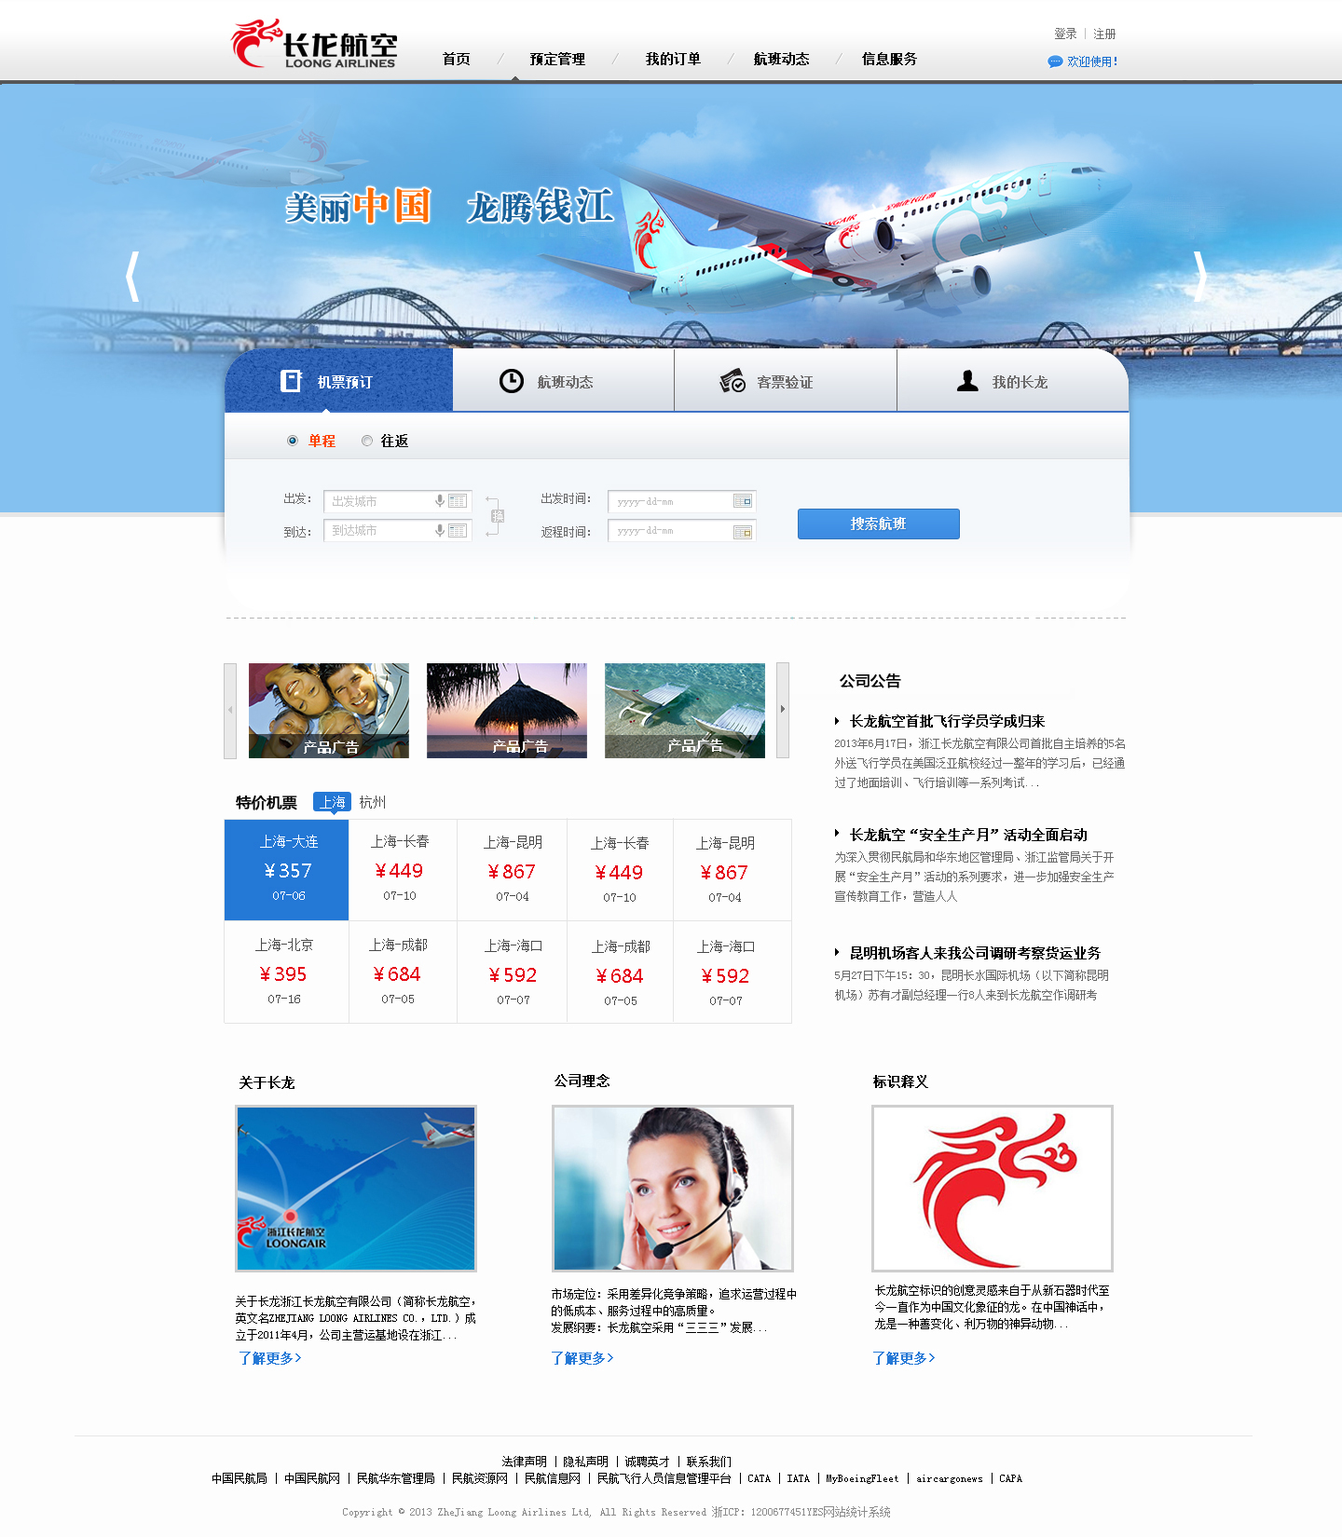
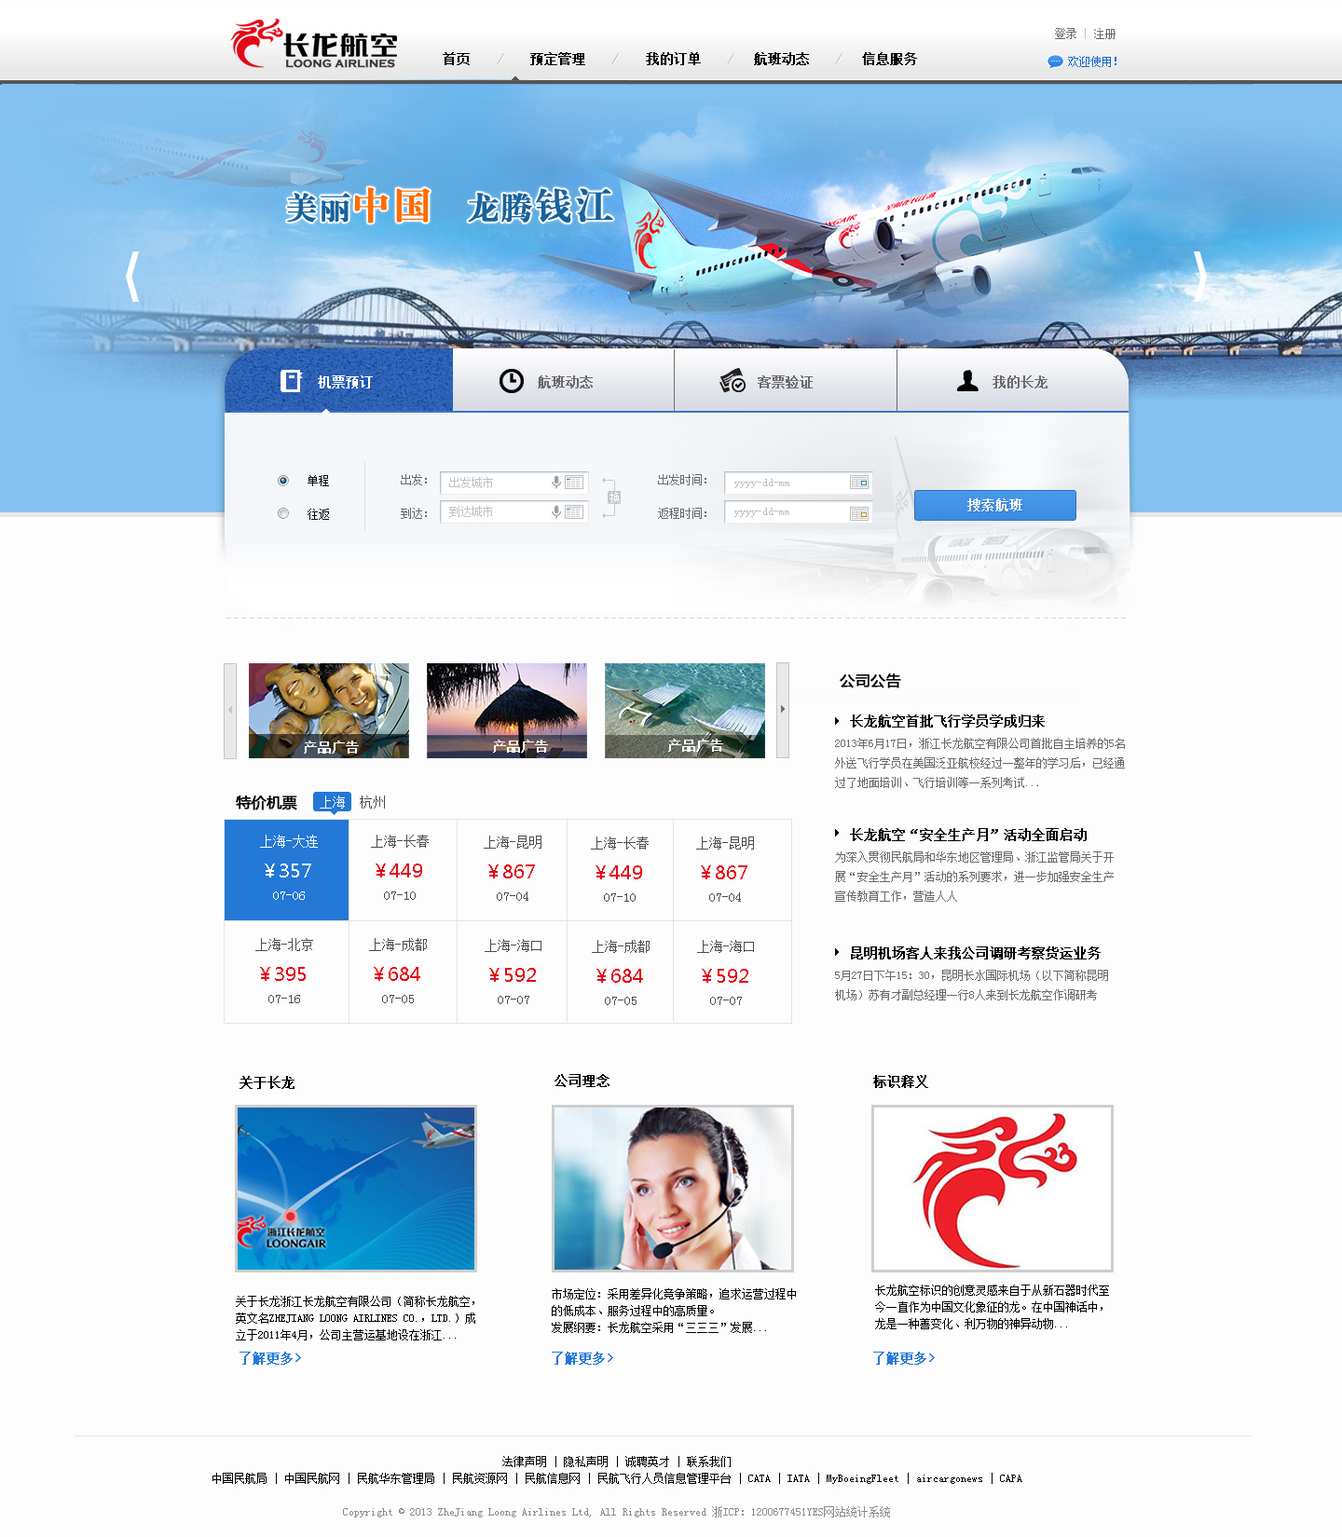
update
update

diff --git a/demo/index.html b/demo/index.html
@@ -1,7 +1,7 @@
 <!DOCTYPE html>
 <head>
 <meta http-equiv="Content-Type" content="text/html; charset=utf-8" />
-<title>无标题文档</title>
+<title>长龙航空</title>
 <link type="text/css" href="css/global.css" rel="stylesheet"/>
 <link type="text/css" href="css/index.css" rel="stylesheet"/>
 
@@ -34,8 +34,10 @@ KISSY.use('gallery/slide/1.1/',function(S,Slide){
 		var s = new Slide('J_SlideBannar',{
 			autoSlide:true,
 			eventType:'click',
+			navClass:'scrollable-trigger',
 			contentClass:'scrollable-panel',
 			pannelClass:'scrollable-content',
+			selectedClass:'current',
 			triggerSelector:'a',
 			effect:'hSlide',
 			carousel:true
@@ -52,11 +54,12 @@ KISSY.use('gallery/slide/1.1/',function(S,Slide){
 		var s1 = new Slide('J_MainBanner',{
 			autoSlide:true,
 			eventType:'click',
-			contentClass:'scrollable-panel0',
-			pannelClass:'scrollable-content0',
+			navClass:'scrollable-trigger',
+			contentClass:'scrollable-panel',
+			pannelClass:'scrollable-content',
+			selectedClass:'current',
 			triggerSelector:'a',
-			effect:'hSlide',
-			carousel:true
+			effect:'fade'
 		});
 		var ctl = S.one('#J_MainBanner-ctrl');
 
@@ -147,12 +150,12 @@ function selectcity(city){
 <div class="bannerout">
     <a class="prebanner" href="javascript:void(0)" id="prebanner"></a>
     <a class="nextbanner" href="javascript:void(0)" id="nextbanner"></a>
-    <div id="J_MainBanner">
-    	<div class="scrollable-panel0">
-		    <div class="scrollable-content0">
+    <div id="J_MainBanner"  >
+    	<div class="scrollable-panel" style="overflow:hidden;position:relative;width:100%;height:465px">
+		    <div class="scrollable-content"   style="width:100%;">
 			   <div class="bannerimg" style="background:url(image/banner1.jpg) center no-repeat;"><a href="javascript:void(0)" class="bannera"></a></div>
 		   	</div>
-			<div class="scrollable-content0 " style="display:none">
+			<div class="scrollable-content " style="width:100%;display:none">
 			   <div class="bannerimg" style="background:url(image/banner2.jpg) center no-repeat;"><a href="javascript:void(0)" class="bannera"></a></div>
 		   	</div>
 	   	</div>
@@ -164,54 +167,55 @@ function selectcity(city){
             <a href="javascript:void(0)" id="check-link" onclick="selectTab('check-link')" class="check-link">客票验证</a>
             <a href="javascript:void(0)" id="my-link" onclick="selectTab('my-link')" class="my-link">我的长龙</a>    
         </div>
-        <div id="ticker-tab" class="ticker-tab" >
-             <!-- 旅行搜索所有搜索框横向 需要引用这个css文件 -->
-    <div class="search-md search-md-jipiao" id="J_search_tab3" style="padding-top:50px">
-    	<ul class="hd tab-nav" style="display:none">
-            <li class="first-node current">国内机票</li>
-        </ul>
-       <div class="search-content tab-content clearfix">
-            <div class="search-posbox has-trans">  
-                <div class="tab-pannel has-trans">
-                    <form action="" method="get" autocomplete="off" id="J_jipiao_form3">
-                        <ul class="search-type">
-                            <li><input type="radio" class="J_type_radio" name="tripType" value="0" id="J_type_radio1" checked> <label for="J_type_radio1">单程</label></li>
-                            <li><input type="radio" class="J_type_radio" name="tripType" value="1" id="J_type_radio2"> <label for="J_type_radio2">往返</label></li>
-                        </ul>
-                        <ul class="search-condition">
-                            <li>
-                                <label for="J_jipiao_depCity3">出发：</label>
-                                <div class="yui3-acinput-box"><s class="yui3-acinput-icon"></s><input type="text" placeholder="出发城市" id="J_jipiao_depCity3" class="search-input required yui3-aclist-input J_TripCityInput" name="depCityName" data-trade="J_jipiao_arrCity3" aria-autocomplete="list" aria-expanded="false" autocomplete="off" x-webkit-speech="x-webkit-speech"></div>
-                                <input type="hidden" id="J_jipiao_depCity_code3" name="depCity" value="BJS" data-trade="J_jipiao_arrCity_code3">
-                            <div class="yui3-aclist-aria" aria-live="polite" role="status"></div></li>
-                            <li>
-                                <label for="J_jipiao_depDate3">出发时间：</label>
-                                <div id="J_jipiao_depDateBox3" class="cal-input fl">
-                                    <input type="text" data-autotab="J_jipiao_endDate3" placeholder="yyyy-mm-dd" id="J_jipiao_depDate3" class="search-input required J_DateInput" maxlength="10" name="depDate" autocomplete="off">
-                                    <span class="week b"></span>
-                                </div>
-                            </li>
-                            <li>
-                                <label for="J_jipiao_arrCity3" >到达：</label>
-                                <div class="yui3-acinput-box"><s class="yui3-acinput-icon"></s><input type="text" placeholder="到达城市" id="J_jipiao_arrCity3" class="search-input required yui3-aclist-input J_TripCityInput" name="arrCityName" aria-autocomplete="list" aria-expanded="false" autocomplete="off" x-webkit-speech="x-webkit-speech"></div>
-                                <input type="hidden" id="J_jipiao_arrCity_code3" name="arrCity" value="DLC">
-                            <div class="yui3-aclist-aria" aria-live="polite" role="status"></div></li>
-                            <li class="search-backitem disabled">
-                                <label for="J_jipiao_endDate3">返程时间：</label>
-                                <div id="J_jipiao_endDateBox3" class="cal-input fl">
-                                    <input type="text" placeholder="yyyy-mm-dd" id="J_jipiao_endDate3" class="search-input J_endDate J_DateInput" maxlength="10" name="arrDate" autocomplete="off">
-                                    <span class="week e"></span>
-                                </div>
-                            </li>
-                        </ul>
-                        <div class="search-trade"><a target="_self" href="javascript:void(0)">互换出发到达城市</a></div>
-                        <input type="submit" value="搜索航班" class="search-submit J_btn">
-                    </form>
-                </div>
-            </div>
-        </div>
+    
+    <div id="ticker-tab" class="ticker-tab" >
+         <!-- 旅行搜索所有搜索框横向 需要引用这个css文件 -->
+	    <div class="search-md search-md-jipiao" id="J_search_tab3" style="padding-top:50px">
+	    	<ul class="hd tab-nav" style="display:none">
+	            <li class="first-node current">国内机票</li>
+	        </ul>
+	       <div class="search-content tab-content clearfix">
+	            <div class="search-posbox has-trans">  
+	                <div class="tab-pannel has-trans">
+	                    <form action="" method="get" autocomplete="off" id="J_jipiao_form3">
+	                        <ul class="search-type">
+	                            <li><input type="radio" class="J_type_radio" name="tripType" value="0" id="J_type_radio1" checked> <label for="J_type_radio1">单程</label></li>
+	                            <li><input type="radio" class="J_type_radio" name="tripType" value="1" id="J_type_radio2"> <label for="J_type_radio2">往返</label></li>
+	                        </ul>
+	                        <ul class="search-condition">
+	                            <li>
+	                                <label for="J_jipiao_depCity3">出发：</label>
+	                                <div class="yui3-acinput-box"><s class="yui3-acinput-icon"></s><input type="text" placeholder="出发城市" id="J_jipiao_depCity3" class="search-input required yui3-aclist-input J_TripCityInput" name="depCityName" data-trade="J_jipiao_arrCity3" aria-autocomplete="list" aria-expanded="false" autocomplete="off" x-webkit-speech="x-webkit-speech"></div>
+	                                <input type="hidden" id="J_jipiao_depCity_code3" name="depCity" value="BJS" data-trade="J_jipiao_arrCity_code3">
+	                            <div class="yui3-aclist-aria" aria-live="polite" role="status"></div></li>
+	                            <li>
+	                                <label for="J_jipiao_depDate3">出发时间：</label>
+	                                <div id="J_jipiao_depDateBox3" class="cal-input fl">
+	                                    <input type="text" data-autotab="J_jipiao_endDate3" placeholder="yyyy-mm-dd" id="J_jipiao_depDate3" class="search-input required J_DateInput" maxlength="10" name="depDate" autocomplete="off">
+	                                    <span class="week b"></span>
+	                                </div>
+	                            </li>
+	                            <li>
+	                                <label for="J_jipiao_arrCity3" >到达：</label>
+	                                <div class="yui3-acinput-box"><s class="yui3-acinput-icon"></s><input type="text" placeholder="到达城市" id="J_jipiao_arrCity3" class="search-input required yui3-aclist-input J_TripCityInput" name="arrCityName" aria-autocomplete="list" aria-expanded="false" autocomplete="off" x-webkit-speech="x-webkit-speech"></div>
+	                                <input type="hidden" id="J_jipiao_arrCity_code3" name="arrCity" value="DLC">
+	                            <div class="yui3-aclist-aria" aria-live="polite" role="status"></div></li>
+	                            <li class="search-backitem disabled">
+	                                <label for="J_jipiao_endDate3">返程时间：</label>
+	                                <div id="J_jipiao_endDateBox3" class="cal-input fl">
+	                                    <input type="text" placeholder="yyyy-mm-dd" id="J_jipiao_endDate3" class="search-input J_endDate J_DateInput" maxlength="10" name="arrDate" autocomplete="off">
+	                                    <span class="week e"></span>
+	                                </div>
+	                            </li>
+	                        </ul>
+	                        <div class="search-trade"><a target="_self" href="javascript:void(0)">互换出发到达城市</a></div>
+	                        <input type="submit" value="搜索航班" class="search-submit J_btn">
+	                    </form>
+	                </div>
+	            </div>
+	        </div>
+	    </div>
     </div>
-        </div>
    <!--         航班动态 -->
         <div class="flight-tab" id="flight-tab">
          <div><label class="lable">航班日期：</label><input type="text"/></div>
@@ -231,7 +235,7 @@ function selectcity(city){
                   <div><label class="lable">会&nbsp;&nbsp;员&nbsp;&nbsp;名：</label><input type="text"/></div>
           <div><label class="lable">登录密码：</label><input type="text"/><a href="javascript:void(0)" class="forget">忘记密码？</a></div>
           <div><label class="lable">验&nbsp;&nbsp;证&nbsp;&nbsp;码：</label><input class="myinput" type="text"/><img alt="验证码"/><a href="javascript:void(0)" class="change">换一张？</a></div>
-          <div><a href="javascript:void(0)" class="search4">fds</a></div>
+          <div><a href="javascript:void(0)" class="search4"></a></div>
         </div>
    </div>
   
@@ -358,21 +362,7 @@ function selectcity(city){
         </tr>
        </table>
       </div>
-      <div>
-        <div class="div1">
-         <p class="blackfont14">关于长龙</p>
-         <div class="imgdiv"><img src="image/pic01.png"/></div>
-         <p class="title" style="width:250px;height:58px;">浙江长龙航空有限公司（简称长龙航空，英文名ZHEJIANG LOONG AIRLINES CO.，LTD.）成立于2011年4月，公司...</p>
-         <a href="javascript:void(0)" class="font14bolda">了解更多&gt;</a>
-        </div>
-         <div class="div2">
-         <p class="blackfont14">公司理念</p>
-         <div class="imgdiv"><img src="image/pic02.png"/></div>
-         <p class="title" style="width:250px;height:58px;">浙江长龙航空有限公司（简称长龙航空，英文名ZHEJIANG LOONG AIRLINES CO.，LTD.）成立于2011年4月，公司...</p>
-         <a href="javascript:void(0)" class="font14bolda">了解更多&gt;</a>
-        </div>
-        <div></div>
-      </div>
+
      </div><!--左边结束-->
      
     </div>
@@ -394,15 +384,32 @@ function selectcity(city){
         <br/>
          <a class="noticea" href="javascript:void(0)">长龙航空首批飞行学员学成归来</a>
          <p class="contentp">2013年2月16日，中国民用航空局批准同意将“长龙国际货运航空有限公司”名称变更为“浙江长龙航空有限公司”，并同意公司在        原有货运业务的基础上增加客运业务。     </p>
+        
+    </div>
+    </div><!--右边结束-->
+     <div class="clearfloat"></div>
+          <div class="news">
+        <div class="div1">
+         <p class="blackfont14">关于长龙</p>
+         <div class="imgdiv"><img src="image/pic01.png"/></div>
+         <p class="title">浙江长龙航空有限公司（简称长龙航空，英文名ZHEJIANG LOONG AIRLINES CO.，LTD.）成立于2011年4月，公司...</p>
+         <a href="javascript:void(0)" class="font14bolda">了解更多&gt;</a>
+        </div>
+         <div class="div2">
+         <p class="blackfont14">公司理念</p>
+         <div class="imgdiv"><img src="image/pic02.png"/></div>
+         <p class="title">浙江长龙航空有限公司（简称长龙航空，英文名ZHEJIANG LOONG AIRLINES CO.，LTD.）成立于2011年4月，公司...</p>
+         <a href="javascript:void(0)" class="font14bolda">了解更多&gt;</a>
+        </div>
         <div  class="div3">
          <p class="blackfont14">标识示意</p>
          <div class="imgdiv"><img src="image/pic03.png"/></div>
-         <p class="title" style="width:250px;height:58px;margin-bottom:10px">浙江长龙航空有限公司（简称长龙航空，英文名ZHEJIANG LOONG AIRLINES CO.，LTD.）成立于2011年4月，公司...</p>
+         <p class="title">浙江长龙航空有限公司（简称长龙航空，英文名ZHEJIANG LOONG AIRLINES CO.，LTD.）成立于2011年4月，公司...</p>
          <a href="javascript:void(0)" class="font14bolda">了解更多&gt;</a>
          </div>
-    </div>
-    </div><!--右边结束-->
-   <div class="clearfloat"></div>
+        <div></div>
+      </div>
+  <div class="clearfloat"></div>
  </div>
 </div>
 

diff --git a/demo/css/index.css b/demo/css/index.css
@@ -1,4 +1,5 @@
 #header ,#navdiv ,#tabdiv ,#footer ,#contentDiv{width:970px;margin:0 auto;}
+#contentDiv{margin:20px auto 0;}
 /*头部*/
 /* #header{height:50px;} */
 /* #header .logodiv{float:left;padding-top:10px;} */
@@ -27,14 +28,14 @@
 /*广告区域背景*/
 .bannerout{height:600px;position:relative}
 .bannerimg{height:460px;position:relative;;border-bottom:solid 5px #e7e7e7;}
-.prebanner{position:absolute;left:80px;top:150px;display:block;height:54px;width:14px;background:url(../image/left.png) center no-repeat;z-index:1}
-.prebanner:hover{background:url(../image/left_hover.png) center no-repeat;z-index:1}
+.prebanner{position:absolute;left:80px;top:150px;display:block;height:54px;width:14px;background:url(../image/left.png) center no-repeat;z-index:10}
+.prebanner:hover{background:url(../image/left_hover.png) center no-repeat;z-index:10}
 .bannerimg .bannera{width:970px;height:460px;display:block;margin:0 auto;}
-.nextbanner{position:absolute;right:80px;top:150px;display:block;height:54px;width:14px;background:url(../image/right.png) center no-repeat;z-index:1}
-.nextbanner:hover{background:url(../image/right_hover.png) center no-repeat;z-index:1}
+.nextbanner{position:absolute;right:80px;top:150px;display:block;height:54px;width:14px;background:url(../image/right.png) center no-repeat;z-index:10}
+.nextbanner:hover{background:url(../image/right_hover.png) center no-repeat;z-index:10}
 
 /*导航菜单*/
-#tabdiv{position:relative;top:-190px;margin:0 auto;background:url(../image/contents.png) center no-repeat;height:300px;}
+#tabdiv{ position: absolute; margin:0px auto 0px 50%; top:285px; left:-485px;background:url(../image/contents.png) center no-repeat;height:300px;;z-index:10}
 #tabdiv .tab-head{height:69px;width:970px;padding-top:10px;padding-left:9px;}
 #tabdiv .tab-head a{display:block;float:left;height:69px;line-height:70px;text-align:center;font-size:14px;font-weight:bold}
 .ticker-link{width:238px;background:url(../image/tab_01_normal.png) center no-repeat;color:#6D6B6B;}
@@ -85,24 +86,29 @@
 .my-tab .search4{display:block;width:174px;height:33px;margin-left:30px;background:url(../image/tab_04_btn.png) center no-repeat;}
 .my-tab .search4:hover{background:url(../image/tab_04_btn_hover.png) center no-repeat;}
 
-#contentDiv .leftcontent{float:left;width:600px;margin-bottom:20px;}
-.showimgdiv{padding-bottom:20px;width:580px;height:102px;padding-left:5px;padding-right:5px;}
-.showimgdiv .outdiv{width:520px;height:102px;overflow:hidden;float:left;}
-.showimgdiv .inner-div{float:left;position:relative;width:540px}
-.pre{float:left;display:block;height:103px;width:15px;margin-right:5px;background:url(../image/banner_left.png) center no-repeat}
-.next{float:left;display:block;height:103px;width:15px;margin-left:5px;background:url(../image/banner_right.png) center no-repeat}
+#contentDiv .leftcontent{float:left;width:610px;margin-bottom:20px;}
+.showimgdiv{width:610px;height:102px;padding: 0 0 35px;}
+.showimgdiv .outdiv{width:570px;height:102px;overflow:hidden;float:left;}
+.showimgdiv .inner-div{float:left;position:relative;width:610px}
+.pre{float:left;display:block;height:103px;width:15px;background:url(../image/banner_left.png) center no-repeat;}
+.next{float:right;display:block;height:103px;width:15px;margin-left:5px;background:url(../image/banner_right.png) center no-repeat;}
+.scrollable-content a{
+	margin:0px 10px;
+	float:left;}
 /* 特价机票start*/
-#contentDiv .leftcontent .city-div span{float:left;display:block;margin-right:10px;}
-.city{float:left;display:block;width:41px;height:25px;float:left;}
-.city-sel{float:left;background:url(../image/where_hover.png) center no-repeat;text-align:center;color:#fff;width:41px;height:25px;display:block;}
-.routes-div-sh {display:block}
+#contentDiv .leftcontent .city-div span{float:left;display:block;margin-right:10px; margin-left:10px;}
+.city{float:left;display:block;width:41px;height:25px;float:left;line-height:20px;}
+.city-sel{float:left;background:url(../image/where_hover.png) center no-repeat;text-align:center;color:#fff;width:41px;height:25px;display:block; line-height:20px;}
+.routes-div-sh {display:block; }
 .routes-div-hz {display:none}
-.routes-div-sh table{border-top:solid 1px #E4E4E4;border-right:solid 1px #E4E4E4;margin-bottom:20px;}
-.routes-div-sh table tr td{height:110px;width:116px;border-left:solid 1px #E4E4E4;border-bottom:solid 1px #E4E4E4;background:#FDFDFD;text-align:center;font-size:14px;}
+td .red14font{
+	line-height:40px;
+	}
+.routes-div-sh table, .routes-div-hz table{border-top:solid 1px #E4E4E4;border-right:solid 1px #E4E4E4;margin-bottom:20px;margin-top:5px;}
+.routes-div-sh table tr td{height:110px;width:136px;border-left:solid 1px #E4E4E4;border-bottom:solid 1px #E4E4E4;background:#FDFDFD;text-align:center;font-size:14px;}
 .routes-div-sh table tr td:hover{background:#2478D6;color:#fff}
-
-.routes-div-hz table{border-top:solid 1px #E4E4E4;border-right:solid 1px #E4E4E4;margin-bottom:20px;}
-.routes-div-hz table tr td{height:110px;width:116px;border-left:solid 1px #E4E4E4;border-bottom:solid 1px #E4E4E4;background:#FDFDFD;text-align:center;font-size:14px;}
+.routes-div-sh table tr td:hover .red14font{color:#fff}
+.routes-div-hz table tr td{height:110px;width:136px;border-left:solid 1px #E4E4E4;border-bottom:solid 1px #E4E4E4;background:#FDFDFD;text-align:center;font-size:14px;}
 .routes-div-hz table tr td:hover{background:#2478D6;color:#fff}
 /* 特价机票end*/
 #contentDiv .leftcontent .div1{float:left}
@@ -110,10 +116,19 @@
 #contentDiv .leftcontent .div2{float:left;margin-left:60px;}
 #contentDiv .leftcontent .div2  p{margin-bottom:10px;}
  .imgdiv{border:solid 3px #CECECE;width:254px;margin-top:10px;margin-bottom:10px;}
-.title{width:250px;height:50px;overflow:hidden;}
-#contentDiv .rightcontent{float:left;width:350px;margin-left:20px;}
-#contentDiv .rightcontent .noticea{display:block;background:url(../image/arrowhead.png) left no-repeat;padding-left:15px;font-size:14px;font-weight:bold;color:#010101}
-#contentDiv .rightcontent .contentp{height:50px;text-indent:2em;color:#6A6A6A}
+.title{width:250px;overflow:hidden; margin-bottom:10px;}
+.news{
+	margin-bottom:70px;
+	float:left;}
+.news .div1, .news .div2, .news .div3{
+	float:left;}
+	.news .div1{
+		margin:0px 80px 0px 5px;}
+		.news .div2{
+		margin:0px 80px 0px 0px;}
+#contentDiv .rightcontent{float:right;width:310px;margin-left:20px;}
+#contentDiv .rightcontent .noticea{text-align: left;display:block;background:url(../image/arrowhead.png) left no-repeat;padding-left:15px;font-size:14px;font-weight:bold;color:#010101}
+#contentDiv .rightcontent .contentp{text-indent:2em;color:#6A6A6A}
 #contentDiv .rightcontent  .div3{margin-top:45px;margin-left:80px}
 #contentDiv .rightcontent  .div3 p{margin-bottom:10px;}
 

diff --git a/demo/css/global.css b/demo/css/global.css
@@ -17,7 +17,7 @@ a:hover{color:#e50717}
 
 /*字体start*/
 .font14{font-size:14px}
-.red14font{font-size:14px;color:#f00;font-weight:bold}
+.red14font{font-size:20px;color:#f00;font-weight:bold}
 .blackfont14{font-size:14px;color:#000;font-weight:bold}
 .grayfont{font-size:12px;font-weight:normal}
 /*字体end*/
